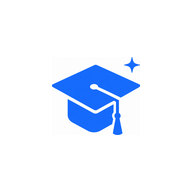
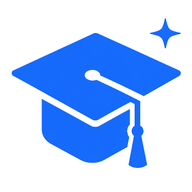
Glass auth redesign, plan-matrix pricing cards, LockedFeature clip fix
- AuthLayout: full-bleed glass brandmark blown up over the viewport,
  blurred and darkened (vignette + dot grid), crisp glass mark above a
  floating card; constant dark world in both themes. icon prop kept for
  API stability.
- public/: glass icon set (favicons, touch/chrome icons) regenerated from
  the original glass render, plus logo-glass-160 (crisp transparent mark)
  and logo-glass-blur-512 (quantized background art).
- tiers.js: PLAN_FEATURES matrix + planHas(); Subscription, UpgradeSheet
  and Onboarding paywall cards all render the SAME full feature list with
  unavailable rows struck through, so tiers compare row for row.
- LockedFeature: pitch panel moved into normal flow with negative-margin
  overlap — the absolute overlay clipped the copy when the blurred
  preview was shorter than the pitch (Handbook tab).

Changed region(s): [[0.0625, 0.1562, 0.9375, 0.875], [0.7812, 0.0938, 0.9375, 0.25]]

diff --git a/src/components/AuthLayout.jsx b/src/components/AuthLayout.jsx
@@ -1,80 +1,84 @@
 import React from "react";
 import { Check } from "lucide-react";
-import { CEDAR_LOGO_URL } from "@/lib/brand";
 
 /**
- * The auth shell for Login, Register, Forgot- and Reset-password (Aug 2026
- * redesign). Desktop (lg+) is a split screen: a deep-navy brand panel — the
- * same constant surface as the recording island, with a soft brand-blue
- * glow — carrying the wordmark and the three-line pitch, beside the form.
- * Below lg it collapses to the classic centered card with the brandmark on
- * top. Pure presentation: every page's form logic is untouched.
+ * Auth shell for Login, Register, Forgot-/Reset-password and the OAuth
+ * consent screens (Aug 2026 glass redesign). One constant visual world in
+ * both themes — like the recording island: the glass brandmark blown up to
+ * fill the viewport, heavily blurred and darkened, with the crisp mark and
+ * the form card floating on top. Pure presentation: every page's form logic
+ * is untouched, and the card interior keeps theme tokens so the forms render
+ * correctly in light and dark.
+ *
+ * Assets (public/): logo-glass-160.png is the crisp transparent brandmark;
+ * logo-glass-blur-512.png is a palette-quantized copy used only as background
+ * art — the heavy blur hides the quantization, and it keeps the page light.
  */
-const PITCH = [
-  'Record the lecture — Cedar takes the notes',
-  'Transcripts, summaries and flashcards, minutes after class',
-  'Your recordings stay private to you',
-];
+const TRUST = ["Records & transcribes", "Summaries & flashcards", "Private to you"];
 
-export default function AuthLayout({ icon: Icon, title, subtitle = '', footer = null, children = null }) {
+// eslint-disable-next-line no-unused-vars -- icon is accepted for API stability; the glass brandmark is the hero now
+export default function AuthLayout({ icon = undefined, title, subtitle = "", footer = null, children = null }) {
   return (
-    <div className="min-h-screen flex bg-background">
-      {/* Brand panel — desktop only */}
-      <div
-        className="hidden lg:flex w-[44%] max-w-xl flex-col justify-between p-12 text-white relative overflow-hidden"
-        style={{ backgroundColor: '#14192A' }}
-      >
-        {/* Soft brand glow, purely decorative */}
-        <div
-          aria-hidden="true"
-          className="absolute -top-40 -right-40 w-[480px] h-[480px] rounded-full pointer-events-none"
-          style={{ background: 'radial-gradient(circle, rgba(46,102,255,0.28) 0%, rgba(46,102,255,0) 70%)' }}
+    <div className="relative min-h-screen overflow-hidden flex flex-col" style={{ backgroundColor: "#0B0E16" }}>
+      {/* Background: the brandmark over the whole screen, blurred and darkened */}
+      <div aria-hidden="true" className="absolute inset-0 pointer-events-none select-none">
+        <img
+          src="/logo-glass-blur-512.png"
+          alt=""
+          className="absolute left-1/2 top-1/2 w-[115vmax] max-w-none -translate-x-1/2 -translate-y-1/2 rotate-[8deg] blur-[70px] opacity-50"
         />
-        <div className="relative flex items-center gap-3">
-          <img src={CEDAR_LOGO_URL} alt="" className="w-9 h-9" />
-          <span className="font-heading text-lg font-bold tracking-tight">Cedar</span>
-        </div>
-        <div className="relative">
-          <h2 className="font-heading text-3xl font-bold leading-tight mb-6 text-balance">
-            Every lecture, remembered for you.
-          </h2>
-          <ul className="space-y-3.5">
-            {PITCH.map((line) => (
-              <li key={line} className="flex items-start gap-3 text-sm text-white/80">
-                <span className="w-5 h-5 rounded-full bg-white/10 flex items-center justify-center flex-shrink-0 mt-[1px]">
-                  <Check className="w-3 h-3 text-white" strokeWidth={2.5} />
-                </span>
-                {line}
-              </li>
-            ))}
-          </ul>
-        </div>
-        <p className="relative text-xs text-white/40">
-          Made in Canada · Your recordings stay private to you
-        </p>
+        {/* Darkening + vignette so the form stays the focal point */}
+        <div
+          className="absolute inset-0"
+          style={{
+            background:
+              "radial-gradient(ellipse at 50% 38%, rgba(11,14,22,0.45) 0%, rgba(11,14,22,0.82) 68%, rgba(11,14,22,0.94) 100%)",
+          }}
+        />
+        {/* Faint dot grid for texture, faded out toward the edges */}
+        <div
+          className="absolute inset-0"
+          style={{
+            backgroundImage: "radial-gradient(rgba(255,255,255,0.05) 1px, transparent 1px)",
+            backgroundSize: "26px 26px",
+            maskImage: "radial-gradient(ellipse at 50% 40%, black 0%, transparent 72%)",
+            WebkitMaskImage: "radial-gradient(ellipse at 50% 40%, black 0%, transparent 72%)",
+          }}
+        />
       </div>
 
-      {/* Form side */}
-      <div className="flex-1 flex items-center justify-center px-4 py-10">
+      <div className="relative flex-1 flex items-center justify-center px-4 py-10">
         <div className="w-full max-w-md">
           <div className="text-center mb-8">
-            {/* Brandmark on mobile (the panel carries it on desktop);
-                the page's own icon in a quiet chip on desktop. */}
-            <img src={CEDAR_LOGO_URL} alt="Cedar" className="w-12 h-12 mx-auto mb-4 lg:hidden" />
-            <div className="hidden lg:inline-flex items-center justify-center w-12 h-12 rounded-2xl bg-primary/10 mb-4">
-              <Icon className="w-6 h-6 text-primary" aria-hidden="true" />
-            </div>
-            <h1 className="font-heading text-2xl sm:text-3xl font-bold tracking-tight text-foreground text-balance">{title}</h1>
-            {subtitle && <p className="text-sm text-muted-foreground mt-2">{subtitle}</p>}
+            <img
+              src="/logo-glass-160.png"
+              alt="Cedar"
+              className="w-16 h-16 mx-auto mb-4 drop-shadow-[0_10px_28px_rgba(46,102,255,0.45)]"
+            />
+            <h1 className="font-heading text-2xl sm:text-3xl font-bold tracking-tight text-white text-balance">{title}</h1>
+            {subtitle && <p className="text-sm text-white/60 mt-2">{subtitle}</p>}
           </div>
-          <div className="bg-card rounded-2xl shadow-2 border border-border p-6 sm:p-8">
+
+          <div className="bg-card rounded-3xl shadow-3 ring-1 ring-white/10 p-6 sm:p-8">
             {children}
           </div>
-          {footer && (
-            <p className="text-center text-sm text-muted-foreground mt-6">{footer}</p>
-          )}
+
+          {footer && <p className="text-center text-sm text-white/70 mt-6">{footer}</p>}
+
+          <div className="hidden sm:flex items-center justify-center gap-5 mt-8">
+            {TRUST.map((t) => (
+              <span key={t} className="flex items-center gap-1.5 text-xs text-white/40">
+                <Check className="w-3.5 h-3.5 text-white/60" strokeWidth={2.5} />
+                {t}
+              </span>
+            ))}
+          </div>
         </div>
       </div>
+
+      <p className="relative text-center text-[11px] text-white/30 pb-6 px-4">
+        Made in Canada &middot; Your recordings stay private to you
+      </p>
     </div>
   );
 }

diff --git a/src/pages/Onboarding.jsx b/src/pages/Onboarding.jsx
@@ -1,7 +1,7 @@
 import React, { useState, useEffect } from 'react';
 import { useNavigate } from 'react-router-dom';
 import { Mic, FileText, Layers, CalendarCheck, Check, Loader2, Shield, X, Lock, Sparkles } from 'lucide-react';
-import { TIERS, CREDITS_PER_LECTURE } from '@/lib/tiers';
+import { TIERS, CREDITS_PER_LECTURE, PLAN_FEATURES, planHas } from '@/lib/tiers';
 import { startCheckout } from '@/lib/checkout';
 import { track } from '@/lib/analytics';
 
@@ -281,12 +281,22 @@ export default function Onboarding() {
                         {period === 'semester' ? `Billed $${t.semester.toFixed(2)} once per semester.` : `Billed $${t.monthly.toFixed(2)} monthly.`}{' '}
                         ~{Math.floor(t.creditsPerMonth / CREDITS_PER_LECTURE)} recorded lectures a month.
                       </p>
+                      {/* Full matrix, same on both cards — Student's struck-
+                          through rows are exactly what Scholar unlocks. */}
                       <ul className="mb-2.5 space-y-1">
-                        {t.includes.slice(1, 4).map((line) => (
-                          <li key={line} className="flex items-start gap-1.5 text-xs text-foreground">
-                            <Check className="w-3.5 h-3.5 text-primary mt-[1px] flex-shrink-0" strokeWidth={2.5} /> {line}
-                          </li>
-                        ))}
+                        {PLAN_FEATURES.map((f) => {
+                          const has = planHas(id, f);
+                          return (
+                            <li key={f.label} className={`flex items-start gap-1.5 text-xs ${has ? 'text-foreground' : 'text-muted-foreground/60'}`}>
+                              {has ? (
+                                <Check className="w-3.5 h-3.5 text-primary mt-[1px] flex-shrink-0" strokeWidth={2.5} />
+                              ) : (
+                                <span className="w-3.5 text-center flex-shrink-0">–</span>
+                              )}
+                              <span className={has ? '' : 'line-through'}>{f.label}</span>
+                            </li>
+                          );
+                        })}
                       </ul>
                       <button type="button" onClick={() => buy(id)} disabled={busy !== null}
                         className={`w-full py-2.5 rounded-button text-sm font-medium transition-colors duration-micro disabled:opacity-50 flex items-center justify-center gap-2 ${recommended ? 'bg-primary text-primary-foreground hover:bg-primary/90' : 'border border-border text-foreground hover:bg-muted'}`}>

diff --git a/src/pages/Subscription.jsx b/src/pages/Subscription.jsx
@@ -2,7 +2,7 @@ import React, { useState, useEffect } from 'react';
 import { useNavigate } from 'react-router-dom';
 import { base44 } from '@/api/base44Client';
 import { startCheckout as beginCheckout } from '@/lib/checkout';
-import { TIERS, TIER_ORDER, CREDIT_PACKS, CREDITS_PER_LECTURE } from '@/lib/tiers';
+import { TIERS, TIER_ORDER, CREDIT_PACKS, CREDITS_PER_LECTURE, PLAN_FEATURES, planHas } from '@/lib/tiers';
 import { Check, Loader2, ArrowLeft, Zap, Sparkles, AlertCircle } from 'lucide-react';
 
 /**
@@ -192,19 +192,23 @@ export default function Subscription() {
                 </p>
               </div>
 
+              {/* Every card renders the SAME matrix so tiers line up row for
+                  row; rows above the tier are struck through — what you'd
+                  miss is the pitch. */}
               <ul className="space-y-1.5 mb-5 flex-1">
-                {tier.includes.map((f, i) => (
-                  <li key={i} className="flex items-start gap-2 text-xs">
-                    <Check className="w-3.5 h-3.5 text-primary mt-0.5 flex-shrink-0" strokeWidth={2.5} />
-                    <span className="text-foreground">{f}</span>
-                  </li>
-                ))}
-                {tier.excludes?.map((f, i) => (
-                  <li key={`x${i}`} className="flex items-start gap-2 text-xs text-muted-foreground/60">
-                    <span className="w-3.5 text-center mt-0.5 flex-shrink-0">–</span>
-                    <span className="line-through">{f}</span>
-                  </li>
-                ))}
+                {PLAN_FEATURES.map((f) => {
+                  const has = planHas(tier.id, f);
+                  return (
+                    <li key={f.label} className={`flex items-start gap-2 text-xs ${has ? '' : 'text-muted-foreground/60'}`}>
+                      {has ? (
+                        <Check className="w-3.5 h-3.5 text-primary mt-0.5 flex-shrink-0" strokeWidth={2.5} />
+                      ) : (
+                        <span className="w-3.5 text-center mt-0.5 flex-shrink-0">–</span>
+                      )}
+                      <span className={has ? 'text-foreground' : 'line-through'}>{f.label}</span>
+                    </li>
+                  );
+                })}
               </ul>
 
               {tier.fairUseHoursPerSemester && (

diff --git a/src/components/monetization/UpgradeSheet.jsx b/src/components/monetization/UpgradeSheet.jsx
@@ -1,7 +1,7 @@
 import React, { useState, useEffect } from 'react';
 import { Link } from 'react-router-dom';
 import { X, Check, Loader2 } from 'lucide-react';
-import { TIERS, TIER_ORDER, CREDIT_COSTS, CREDITS_PER_LECTURE, FEATURES, featureMinTierName } from '@/lib/tiers';
+import { TIERS, TIER_ORDER, CREDIT_COSTS, CREDITS_PER_LECTURE, FEATURES, featureMinTierName, PLAN_FEATURES, planHas } from '@/lib/tiers';
 import { startCheckout } from '@/lib/checkout';
 import { useBalance } from '@/hooks/useBalance';
 import { track } from '@/lib/analytics';
@@ -160,12 +160,22 @@ export default function UpgradeSheet({ source = 'generic', feature = null, onClo
                         ? `Billed $${t.semester.toFixed(2)} once per semester.`
                         : `Billed $${t.monthly.toFixed(2)} monthly.`}
                     </p>
+                    {/* The SAME full matrix on every card, rows above the
+                        tier struck through — the gap sells the step up. */}
                     <ul className="mt-2 space-y-1">
-                      {t.includes.slice(0, 3).map((line) => (
-                        <li key={line} className="flex items-start gap-1.5 text-xs text-foreground">
-                          <Check className="w-3.5 h-3.5 text-primary mt-[1px] flex-shrink-0" strokeWidth={2.5} /> {line}
-                        </li>
-                      ))}
+                      {PLAN_FEATURES.map((f) => {
+                        const has = planHas(id, f);
+                        return (
+                          <li key={f.label} className={`flex items-start gap-1.5 text-xs ${has ? 'text-foreground' : 'text-muted-foreground/60'}`}>
+                            {has ? (
+                              <Check className="w-3.5 h-3.5 text-primary mt-[1px] flex-shrink-0" strokeWidth={2.5} />
+                            ) : (
+                              <span className="w-3.5 text-center flex-shrink-0">–</span>
+                            )}
+                            <span className={has ? '' : 'line-through'}>{f.label}</span>
+                          </li>
+                        );
+                      })}
                     </ul>
                     <button
                       type="button"

diff --git a/src/lib/tiers.js b/src/lib/tiers.js
@@ -159,6 +159,34 @@ export const FEATURES = {
   study_schedule:   { label: 'AI study schedules', minTier: 'scholar' },
 };
 
+/**
+ * The full plan-comparison matrix: every plan card renders this SAME list so
+ * the tiers line up row for row, with rows above the tier struck through —
+ * seeing exactly what is missed sells the step up better than a short list
+ * ever did (user request, Aug 2026). Labels here are marketing copy; the
+ * enforcing map is FEATURES above / server credits.js.
+ */
+export const PLAN_FEATURES = [
+  { label: 'Record, transcribe & summarize lectures', minTier: 'free' },
+  { label: 'Flashcards from every lecture', minTier: 'free' },
+  { label: 'Full exam coverage map', minTier: 'free' },
+  { label: 'Calendar, planner, focus mode & analytics', minTier: 'free' },
+  { label: 'Timetable import & unlimited typed notes', minTier: 'free' },
+  { label: 'AI lecture reviews & quick quizzes', minTier: 'student' },
+  { label: 'Practice questions & study material', minTier: 'student' },
+  { label: 'Missed-lecture catch-up summaries', minTier: 'student' },
+  { label: 'Cleaned \u201cProfessor\u2019s Voice\u201d transcripts', minTier: 'student' },
+  { label: 'Smart rebooking & project roadmaps', minTier: 'student' },
+  { label: 'Class handbooks for every course', minTier: 'scholar' },
+  { label: 'Exam topic prediction', minTier: 'scholar' },
+  { label: 'AI study schedules', minTier: 'scholar' },
+  { label: 'Full proficiency history', minTier: 'scholar' },
+  { label: 'Priority processing', minTier: 'unlimited' },
+];
+
+/** Does this plan include this PLAN_FEATURES row? */
+export const planHas = (tierId, feature) => tierRank(tierId) >= tierRank(feature.minTier);
+
 export const tierRank = (id) => Math.max(0, TIER_ORDER.indexOf(id || 'free'));
 
 /** Can this tier use this feature? Unknown features are never locked. */

diff --git a/src/components/monetization/LockedFeature.jsx b/src/components/monetization/LockedFeature.jsx
@@ -23,11 +23,15 @@ export default function LockedFeature({
   return (
     <div className={`relative overflow-hidden rounded-2xl border border-border bg-card ${className}`}>
       {children && (
-        <div className="pointer-events-none select-none blur-[6px] opacity-60 max-h-72 overflow-hidden" aria-hidden="true">
+        <div className="pointer-events-none select-none blur-[6px] opacity-60 max-h-72 min-h-[128px] overflow-hidden" aria-hidden="true">
           {children}
         </div>
       )}
-      <div className={children ? 'absolute inset-0 flex items-end bg-gradient-to-t from-card via-card/85 to-card/10' : ''}>
+      {/* The panel sits in normal flow and overlaps the preview's bottom with
+          a negative margin, so it can never be taller than its box and clip —
+          the absolutely-positioned version cut the copy off whenever the
+          preview was shorter than the pitch (seen on the Handbook tab). */}
+      <div className={children ? 'relative -mt-24 bg-gradient-to-t from-card via-card/90 to-transparent pt-12' : ''}>
         <div className="p-5 w-full">
           <span className="inline-flex items-center gap-1.5 px-2.5 py-1 rounded-full bg-primary/10 text-primary text-[11px] font-semibold mb-2">
             <Lock className="w-3 h-3" strokeWidth={2.5} /> {requiredTierName} and up
